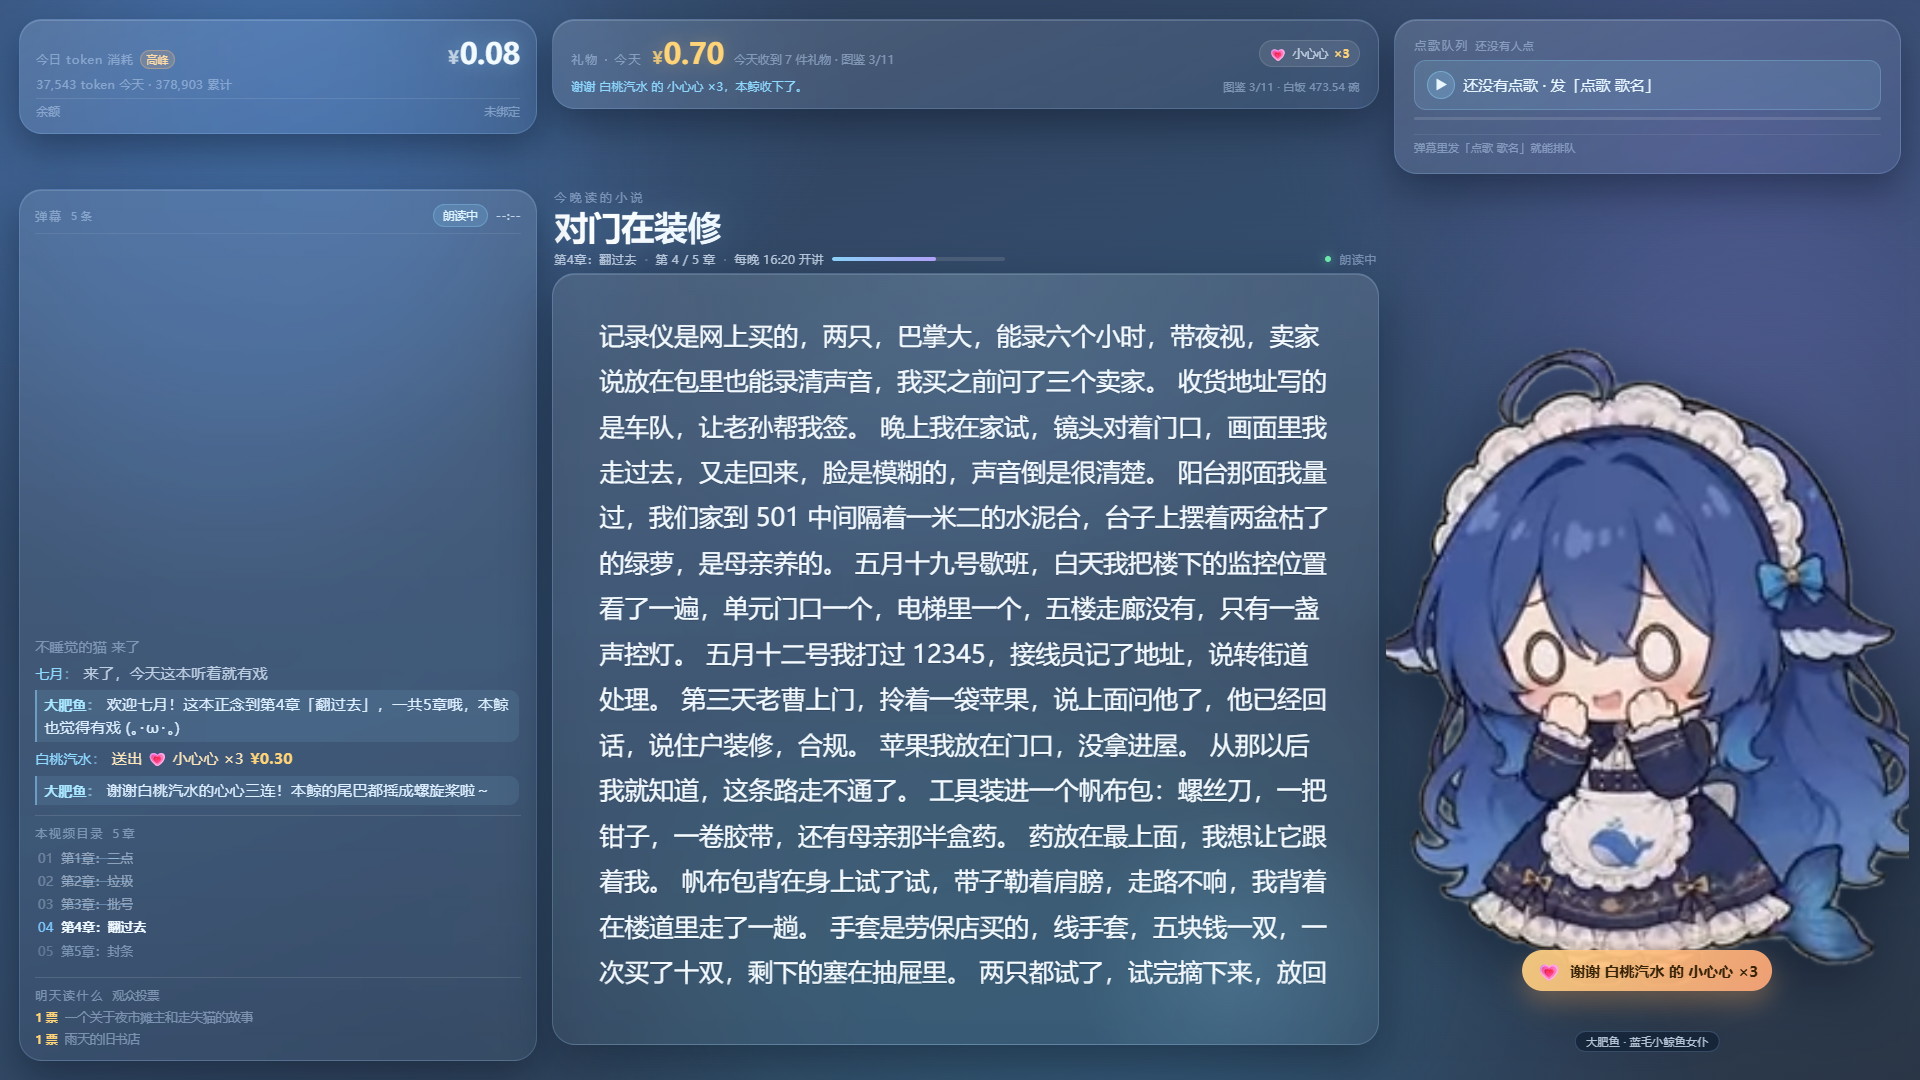
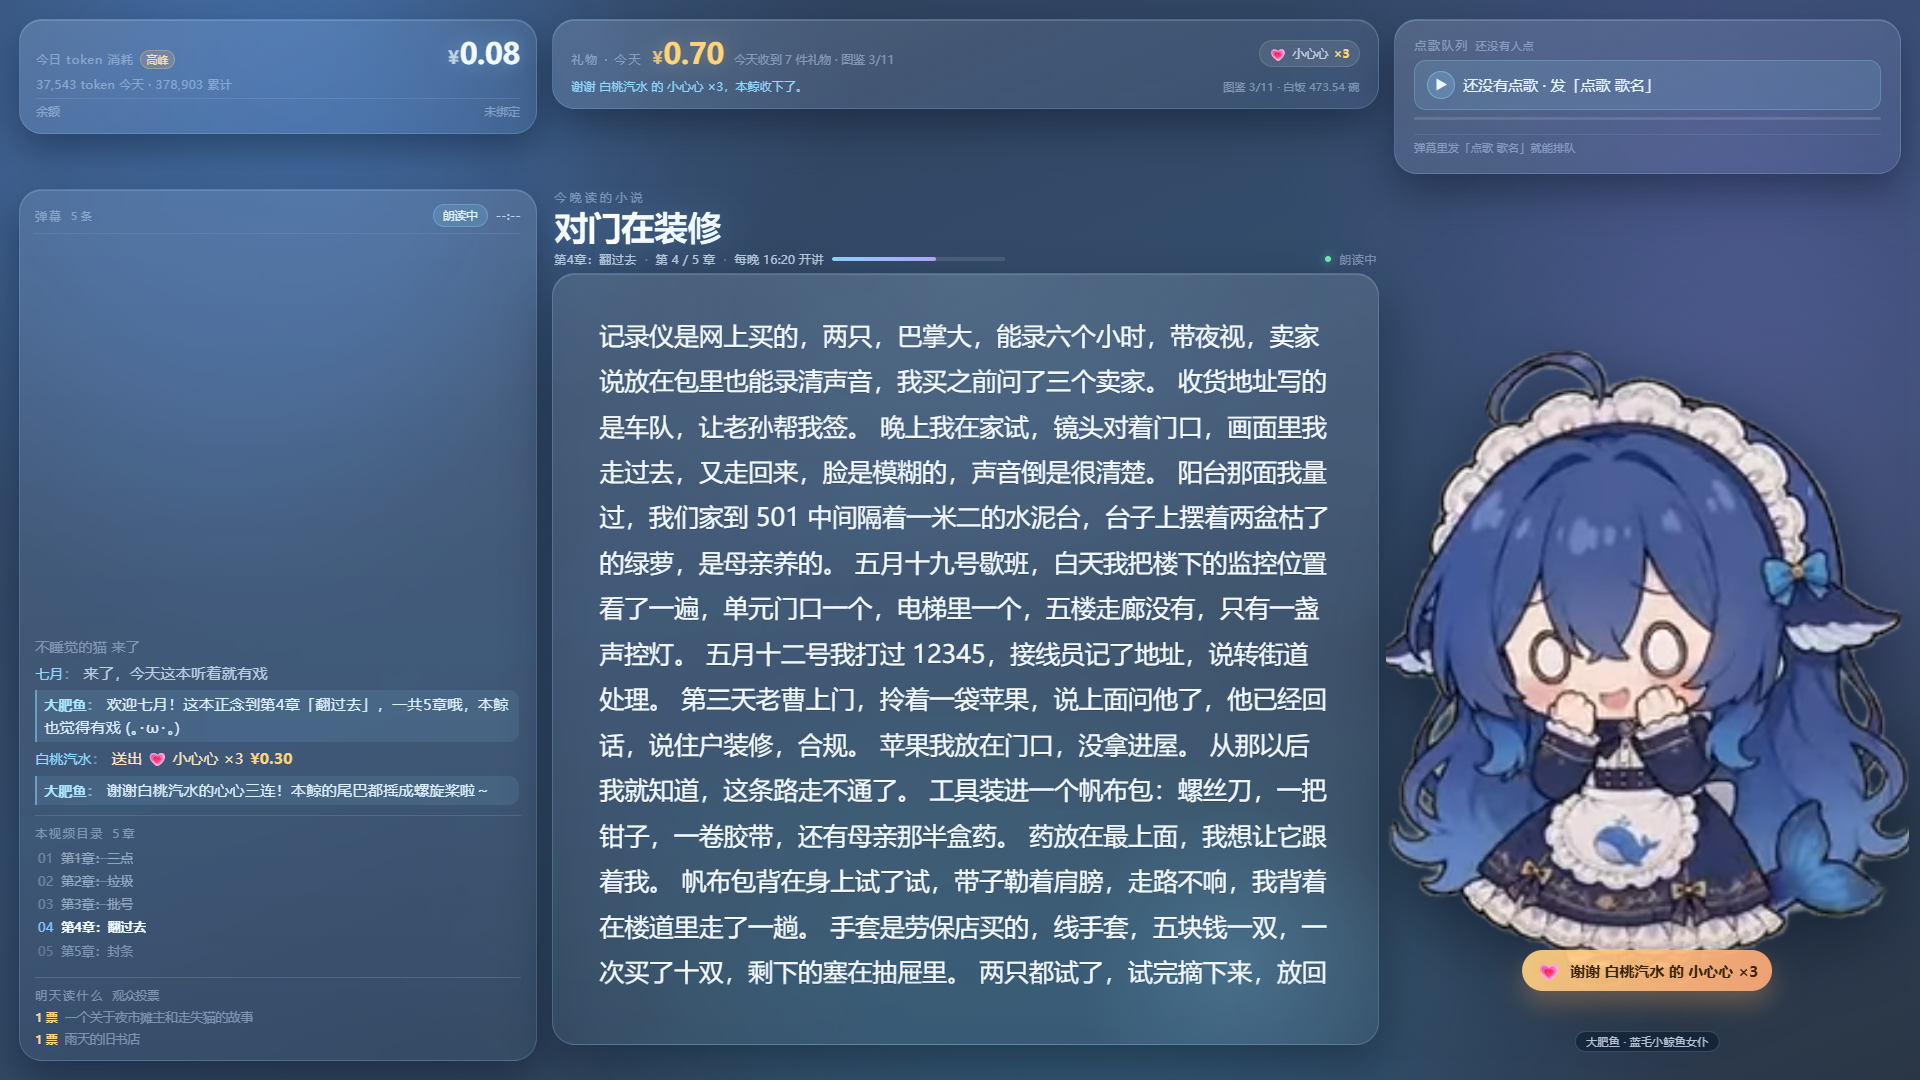
宠物动作文件坏了自动退回待机动画

Changed region(s): [[0.7188, 0.3056, 1.0, 0.8861]]

diff --git a/public/app.js b/public/app.js
@@ -159,7 +159,16 @@ function setMood(name, holdMs = 0) {
   }
 }
 
+/* 哪个动作文件坏了就退回待机动画；待机也放不出来，才收起来换成 🐋 */
 pet.addEventListener('error', () => {
+  const idleSrc = MOODS.idle;
+  if (pet.dataset.fellBack !== '1' && pet.getAttribute('src') !== idleSrc) {
+    pet.dataset.fellBack = '1';
+    currentMood = 'idle';
+    pet.src = idleSrc;
+    el.pet.play?.()?.catch?.(() => {});
+    return;
+  }
   pet.style.display = 'none';
   fallback.hidden = false;
 });
